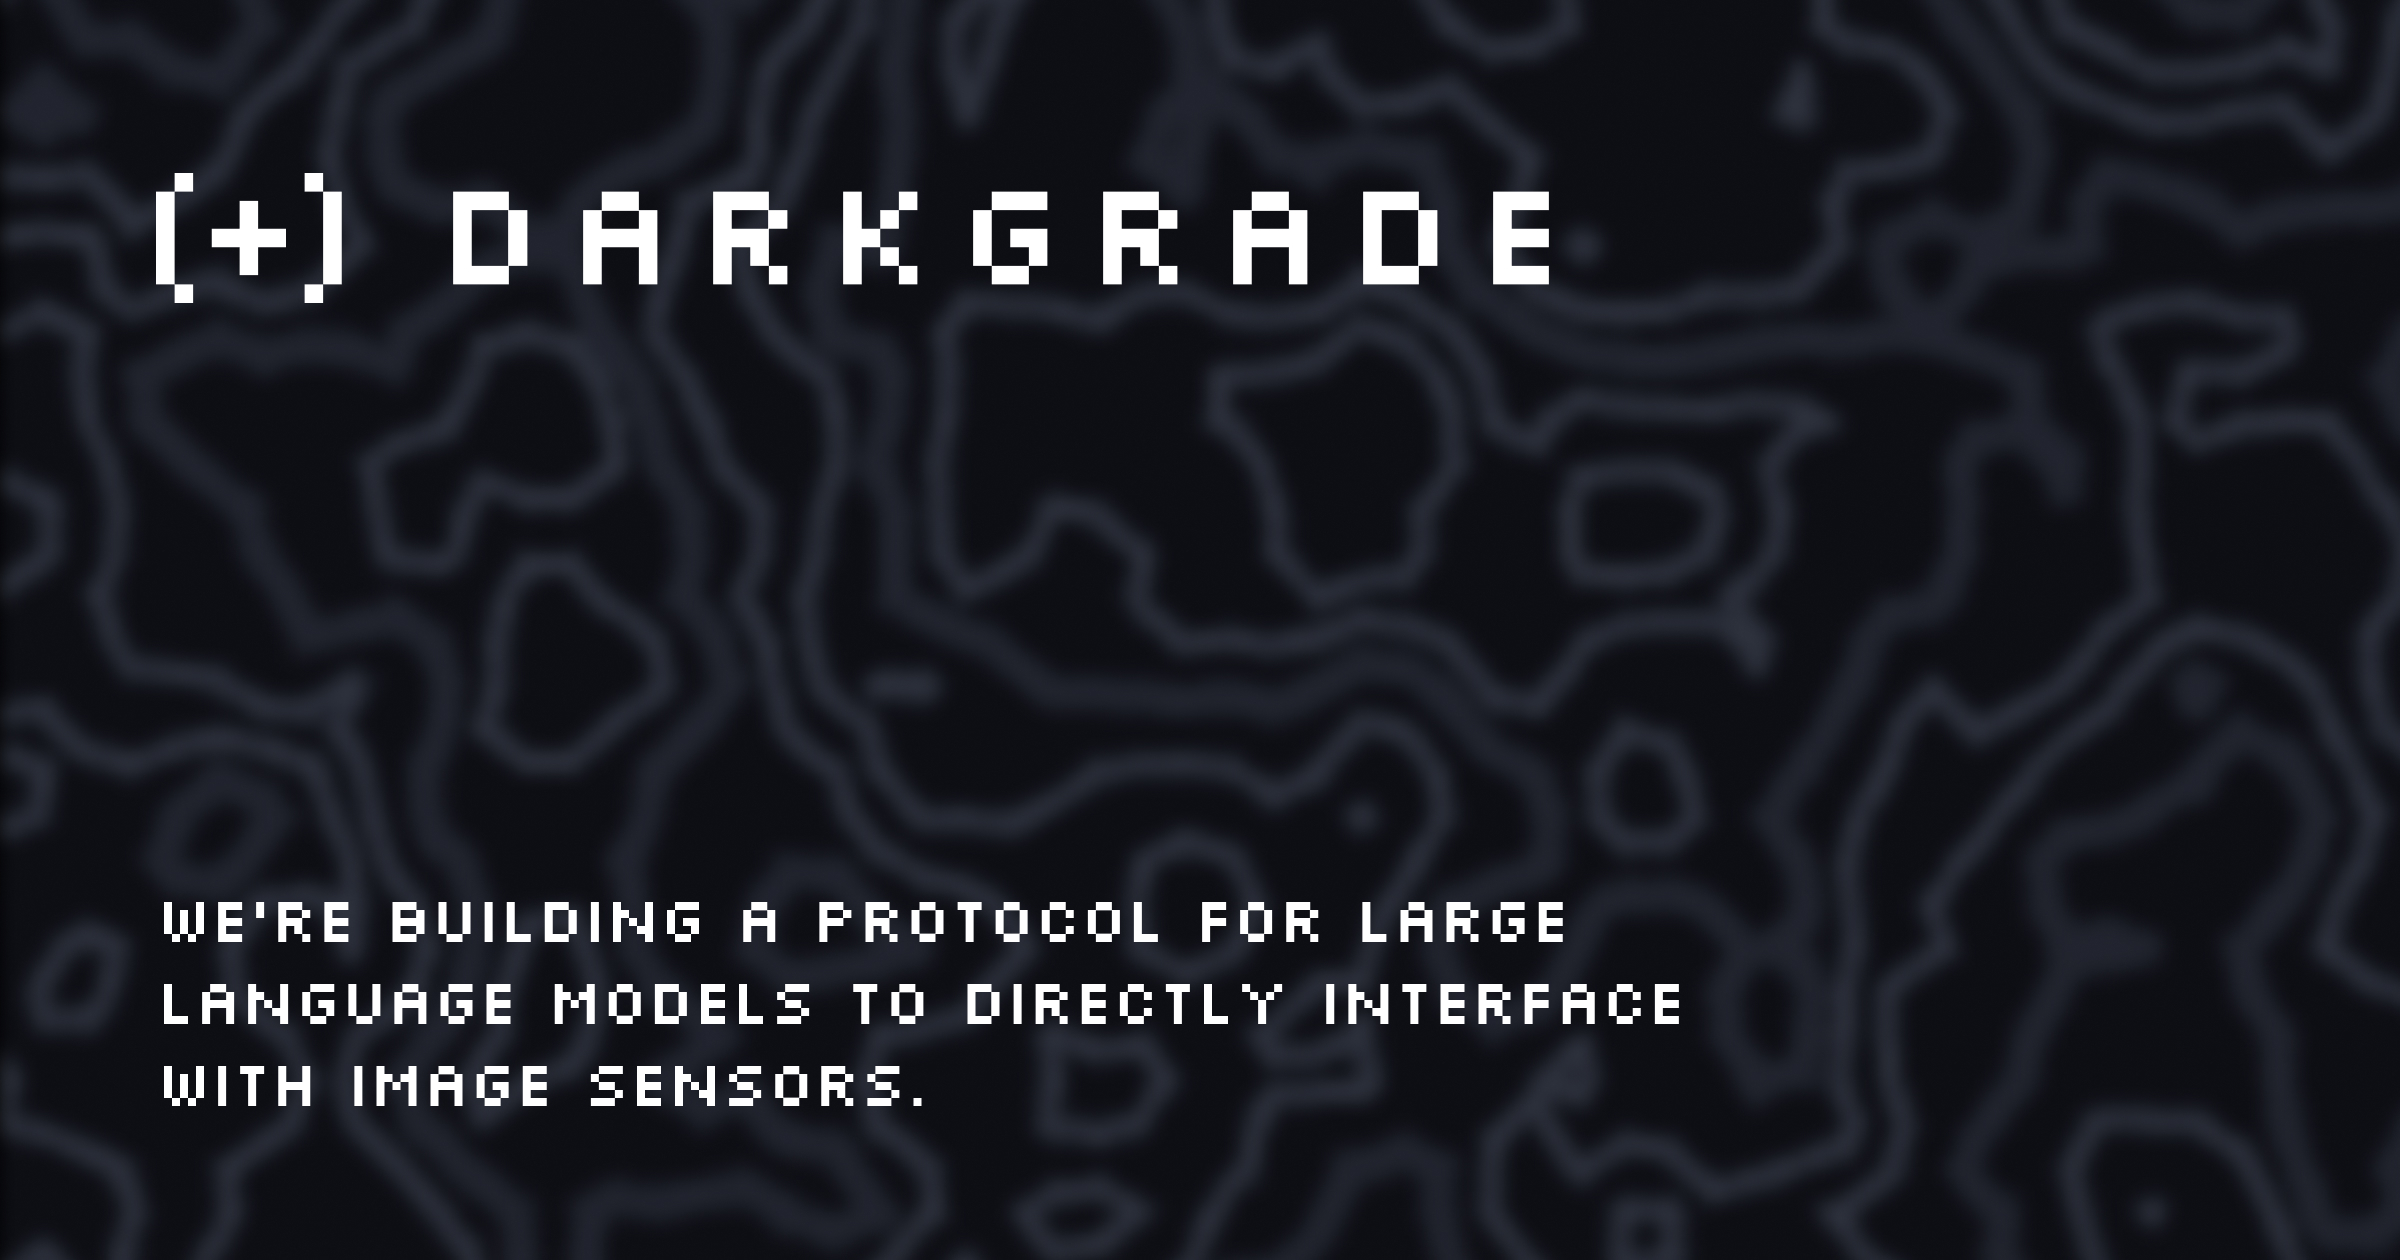
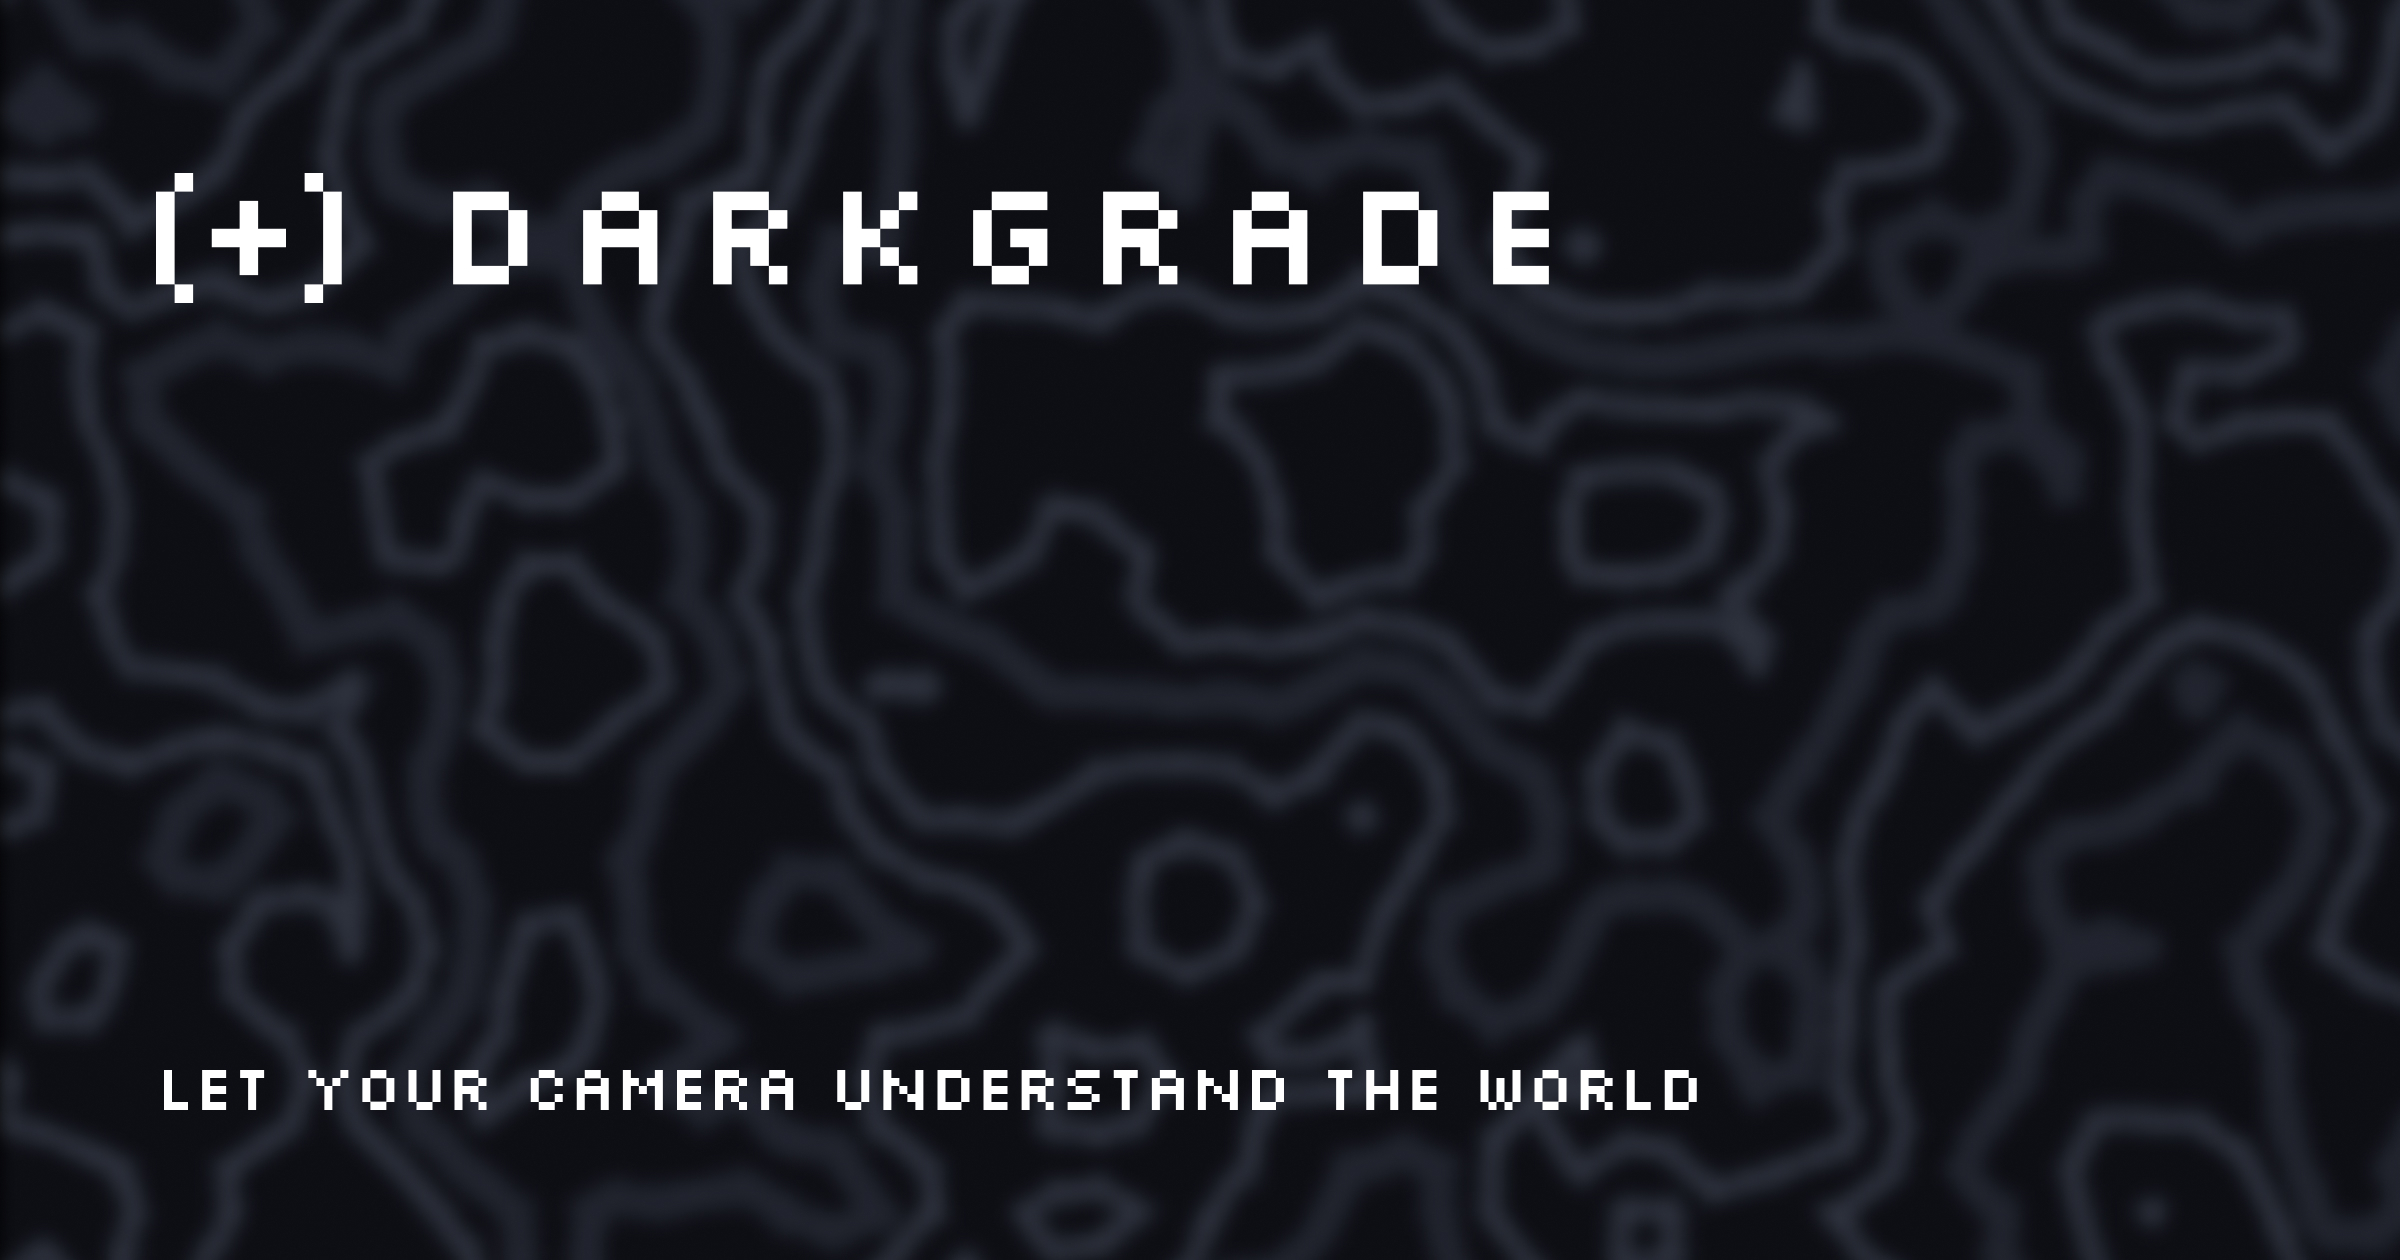
Update branding and links across documentation and website

Changed region(s): [[0.0625, 0.7738, 0.7188, 0.8976], [0.0625, 0.7119, 0.6562, 0.7429]]

diff --git a/apps/darkgrade.com/app/layout.tsx b/apps/darkgrade.com/app/layout.tsx
@@ -19,19 +19,19 @@ export default function RootLayout({ children }: { children: React.ReactNode }) 
                 <meta charSet="utf-8" />
                 <link rel="icon" type="image/svg+xml" href="/favicon.svg" />
                 <meta name="viewport" content="width=device-width" />
-                <title>darkgrade</title>
+                <title>Darkgrade | Let your camera understand the world</title>
                 <meta
                     name="description"
-                    content="we're building a protocol for large language models to directly interface with image sensors."
+                    content="Let your camera understand the world. We're building a protocol for large language models to directly interface with image sensors."
                 />
                 <meta property="og:title" content="darkgrade" />
                 <meta
                     property="og:description"
-                    content="we're building a protocol for large language models to directly interface with image sensors."
+                    content="Let your camera understand the world. We're building a protocol for large language models to directly interface with image sensors."
                 />
-                <meta property="og:image" content="https://darkgrade.ai/opengraph.jpg" />
+                <meta property="og:image" content="https://darkgrade.com/opengraph.jpg" />
                 <meta property="og:type" content="website" />
-                <meta property="og:url" content="https://darkgrade.ai" />
+                <meta property="og:url" content="https://darkgrade.com" />
                 <meta name="twitter:card" content="summary_large_image" />
             </head>
             <body

diff --git a/README.md b/README.md
@@ -1,4 +1,5 @@
-# @darkgrade/fuse
+# <img src="apps/darkgrade.com/public/plus_darkgrade_dark.svg" alt="darkgrade" style="height:20px;" />
+
 
 **Connect to & control your camera with TypeScript**
 
@@ -209,4 +210,4 @@ await camera.connect()
 
 ---
 
-made with ❤ by [darkgrade](https:/darkgrade.ai)
+made with ❤ by [darkgrade](https:/darkgrade.com)

diff --git a/apps/darkgrade.com/README.md b/apps/darkgrade.com/README.md
@@ -1,3 +1,3 @@
-# <img src="public/plus_darkgrade_dark.svg" alt="darkgrade" style="height:20px;" /> darkgrade.ai
+# <img src="public/plus_darkgrade_dark.svg" alt="darkgrade" style="height:20px;" />
 
 we're building a protocol for large language models to directly interface with image sensors.

diff --git a/apps/docs/README.md b/apps/docs/README.md
@@ -1,4 +1,4 @@
-# docs
+# <img src="assets/plus_darkgrade_dark.svg" alt="darkgrade" style="height:20px;" />
 
 To install dependencies:
 
